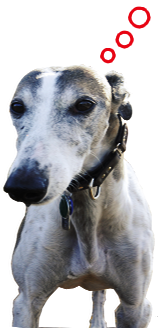
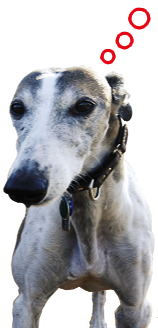
Fix the bottom of Lotte's legs.

diff --git a/css/style.css b/css/style.css
@@ -233,7 +233,7 @@ button {  width: auto; overflow: visible; }
 }
 #left-side {  background-image: url("../images/photo-booth-left.jpg"); left: 0}
 #right-side { background-image: url("../images/photo-booth-right.jpg"); right: 0;}
-#lotte { width: 50%; position: absolute; left: 25%; bottom: 0; height: 328px; }
+#lotte { width: 50%; position: absolute; left: 25%; bottom: -1px; height: 328px; }
 #lotte div { background-image: url("../images/photo-booth-lotte.png");
          width: 158px; height: 328px; margin: 0px auto;
  }
